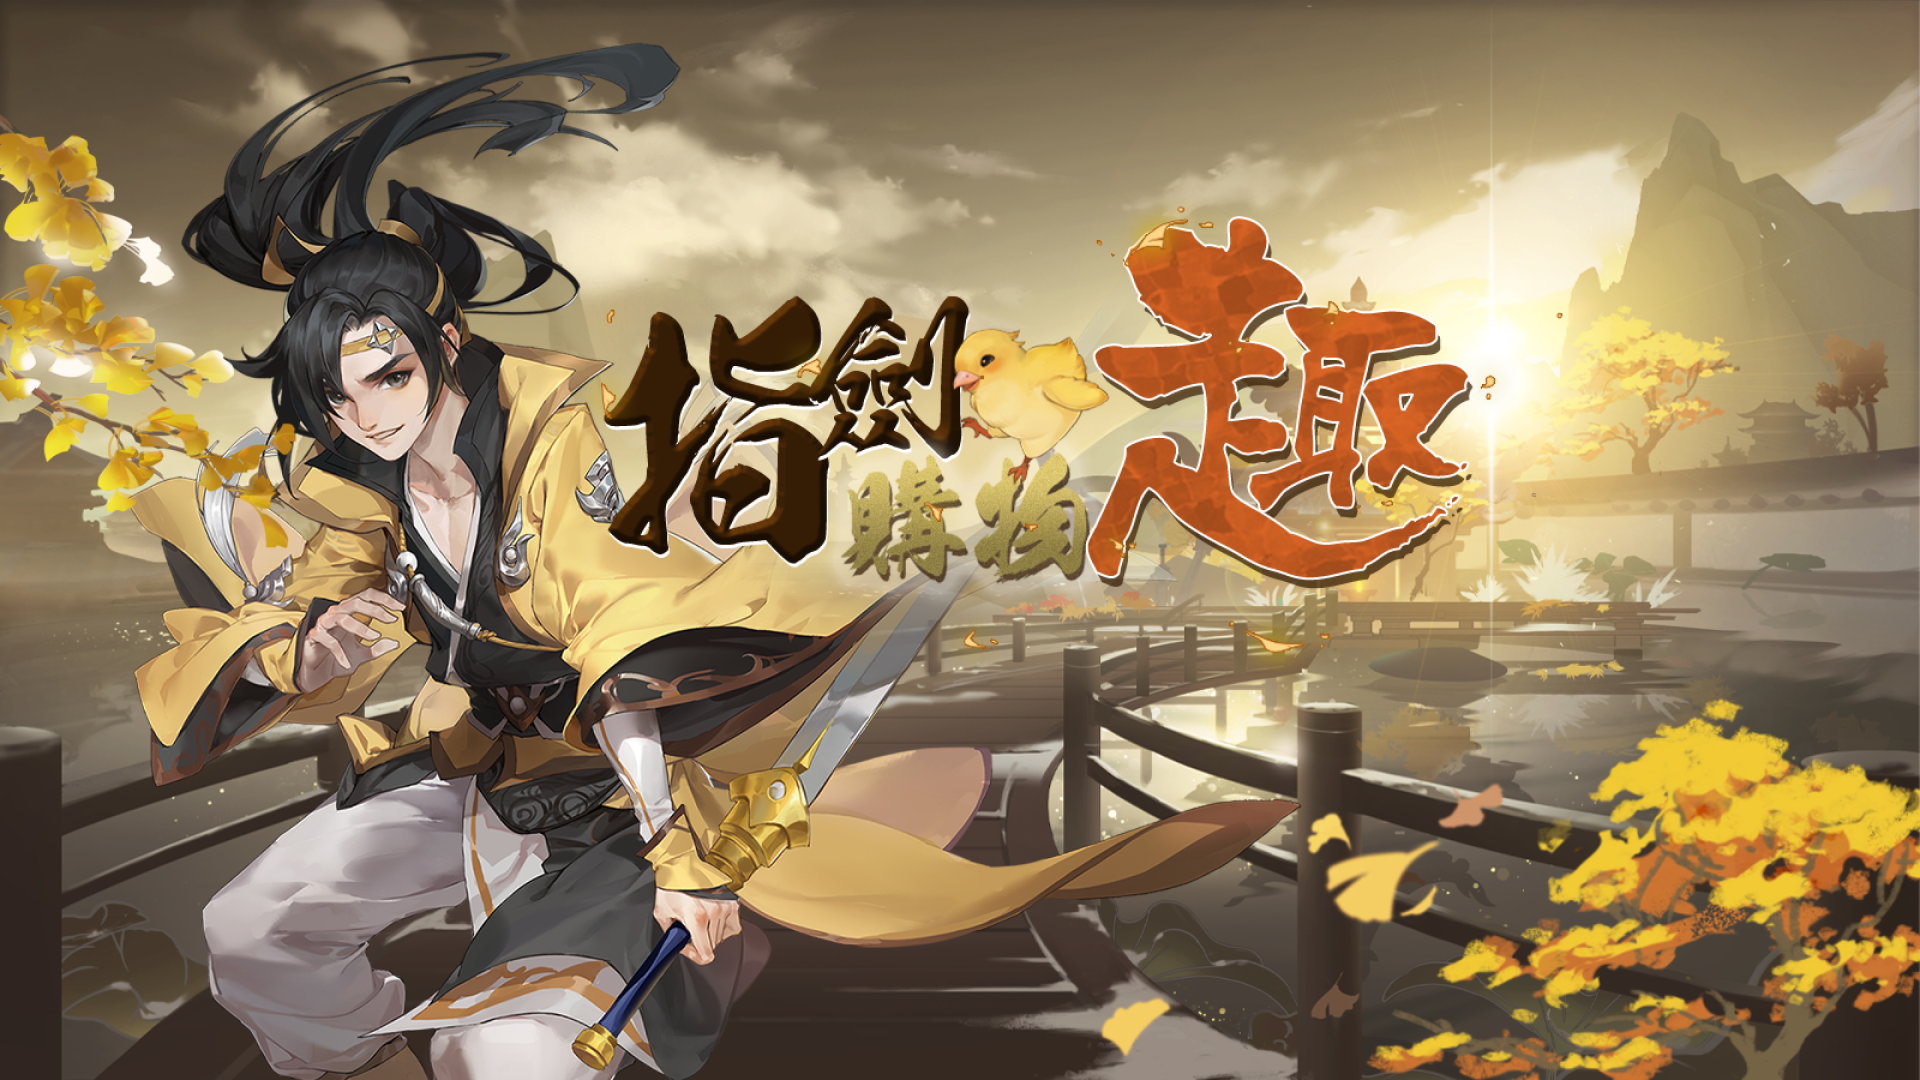
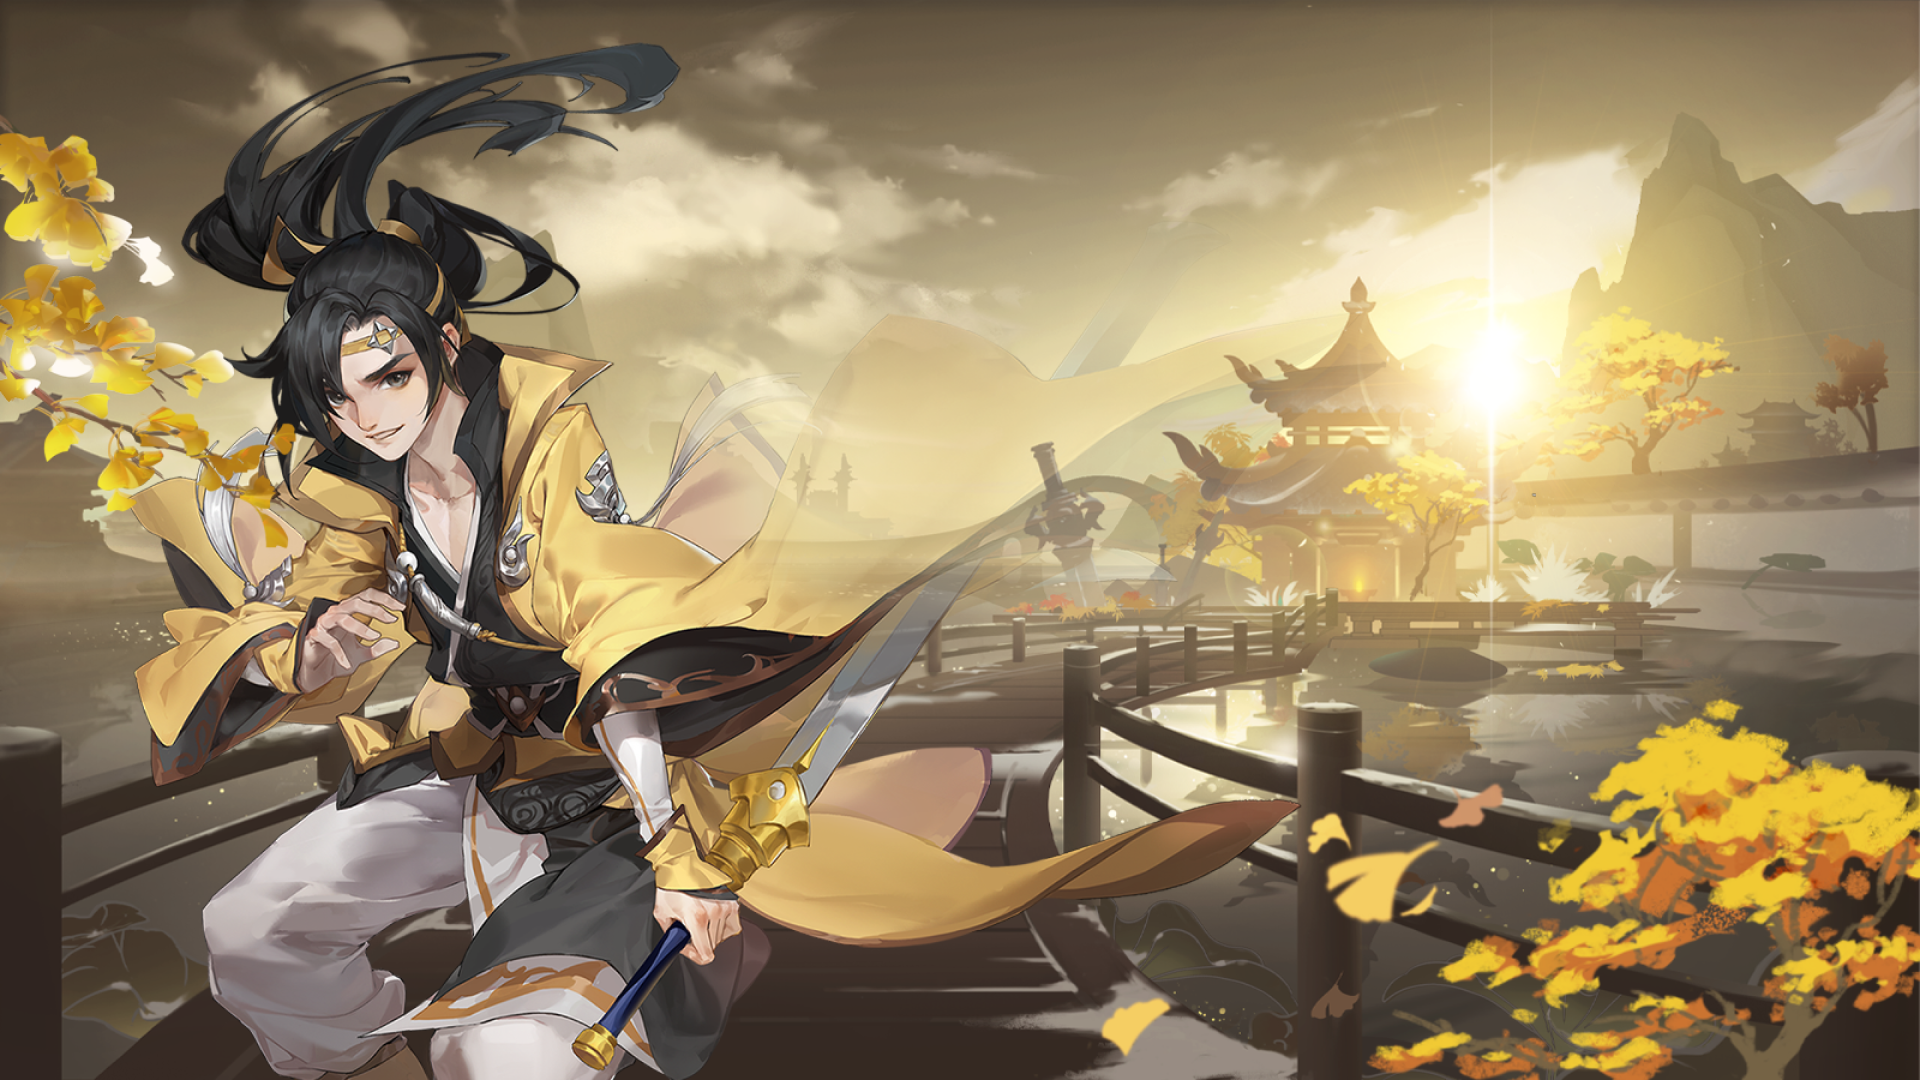
1221 16:22
背景橫版搞定 登入按鈕設定完成

Changed region(s): [[0.3125, 0.1833, 0.7812, 0.55], [0.6562, 0.5806, 0.6875, 0.6111], [0.5, 0.5806, 0.5312, 0.6111]]

diff --git a/dist/style/index.min.css b/dist/style/index.min.css
@@ -1,1 +1,1 @@
-*{margin:0;padding:0;-webkit-box-sizing:border-box;box-sizing:border-box}.lightbox{display:none;width:100vw;height:100vh;position:absolute;z-index:3;background:rgba(0,0,0,.7)}.lightbox img{position:absolute;top:40%;left:50%;-webkit-animation:shadow-drop-lr .4s cubic-bezier(0.25, 0.46, 0.45, 0.94) both;animation:shadow-drop-lr .4s cubic-bezier(0.25, 0.46, 0.45, 0.94) both}.logo{display:-webkit-box;display:-ms-flexbox;display:flex;-webkit-box-pack:end;-ms-flex-pack:end;justify-content:flex-end}.eventdescription{display:-webkit-box;display:-ms-flexbox;display:flex;-webkit-box-pack:end;-ms-flex-pack:end;justify-content:flex-end}.login{text-align:center;background-color:#1eff00;margin-bottom:3rem}.navbar{display:-webkit-box;display:-ms-flexbox;display:flex;-webkit-box-align:center;-ms-flex-align:center;align-items:center;-webkit-box-pack:center;-ms-flex-pack:center;justify-content:center;gap:10rem;margin-bottom:2rem}.navbar .button{font-size:1.3rem;width:180px;height:55px;color:#3290ff;border:1.73067px solid #3290ff;border-radius:20.768px;text-align:center;line-height:55px}.navbar a{text-decoration:none}.integral{margin-bottom:1rem}.page-1{display:none;margin:auto;width:90vw}.reward-index{margin:auto;font-size:1.3rem;text-align:center;line-height:1.7rem;display:-webkit-box;display:-ms-flexbox;display:flex;-webkit-box-pack:center;-ms-flex-pack:center;justify-content:center;gap:3rem;margin-bottom:3rem}.priz{width:300px;height:100%;border:1px solid #292922;border-radius:10px;-webkit-animation:shadow-drop-lr .4s cubic-bezier(0.25, 0.46, 0.45, 0.94) both;animation:shadow-drop-lr .4s cubic-bezier(0.25, 0.46, 0.45, 0.94) both}.page-2{display:none;padding-top:10px;padding-bottom:10px;margin:auto;width:20vw}.keyin{margin:auto;width:90%;padding:10px;display:-webkit-box;display:-ms-flexbox;display:flex;-webkit-box-orient:vertical;-webkit-box-direction:normal;-ms-flex-direction:column;flex-direction:column;-webkit-box-pack:center;-ms-flex-pack:center;justify-content:center;border:1px solid #292929;-webkit-animation:shadow-drop-lr .4s cubic-bezier(0.25, 0.46, 0.45, 0.94) both;animation:shadow-drop-lr .4s cubic-bezier(0.25, 0.46, 0.45, 0.94) both}form label{width:10vw}.address{width:170%}.click-button{width:100%;display:-webkit-box;display:-ms-flexbox;display:flex;-ms-flex-pack:distribute;justify-content:space-around}.page-3{display:none;margin:auto;width:90vw}.table{margin:auto;-webkit-animation:shadow-drop-lr .4s cubic-bezier(0.25, 0.46, 0.45, 0.94) both;animation:shadow-drop-lr .4s cubic-bezier(0.25, 0.46, 0.45, 0.94) both}.table thead td{padding-right:3rem;padding-left:5px;color:#fff;background-color:#333}.table td{padding-right:3rem;padding-left:5px;background-color:#f9f9f9}@-webkit-keyframes shadow-drop-lr{0%{-webkit-box-shadow:0 0 0 0 rgba(0,0,0,0),0 0 0 0 rgba(0,0,0,0);box-shadow:0 0 0 0 rgba(0,0,0,0),0 0 0 0 rgba(0,0,0,0)}100%{-webkit-box-shadow:-12px 0 20px -12px rgba(0,0,0,.35),12px 0 20px -12px rgba(0,0,0,.35);box-shadow:-12px 0 20px -12px rgba(0,0,0,.35),12px 0 20px -12px rgba(0,0,0,.35)}}@keyframes shadow-drop-lr{0%{-webkit-box-shadow:0 0 0 0 rgba(0,0,0,0),0 0 0 0 rgba(0,0,0,0);box-shadow:0 0 0 0 rgba(0,0,0,0),0 0 0 0 rgba(0,0,0,0)}100%{-webkit-box-shadow:-12px 0 20px -12px rgba(0,0,0,.35),12px 0 20px -12px rgba(0,0,0,.35);box-shadow:-12px 0 20px -12px rgba(0,0,0,.35),12px 0 20px -12px rgba(0,0,0,.35)}}/*# sourceMappingURL=index.min.css.map */
+*{margin:0;padding:0;-webkit-box-sizing:border-box;box-sizing:border-box}body{width:100vw;height:100vh;background-image:url("/img/index/backgrond.png");background-color:#f0e6ce;background-repeat:no-repeat;background-position:center center;background-size:cover}.lightbox{display:none;width:100vw;height:100vh;position:absolute;z-index:3;background:rgba(0,0,0,.7)}.lightbox img{position:absolute;top:40%;left:50%;-webkit-animation:shadow-drop-lr .4s cubic-bezier(0.25, 0.46, 0.45, 0.94) both;animation:shadow-drop-lr .4s cubic-bezier(0.25, 0.46, 0.45, 0.94) both}.logo{display:-webkit-box;display:-ms-flexbox;display:flex;-webkit-box-pack:end;-ms-flex-pack:end;justify-content:flex-end}.ibenlogo{display:-webkit-box;display:-ms-flexbox;display:flex;-webkit-box-pack:center;-ms-flex-pack:center;justify-content:center;margin-bottom:6%}.login{display:-webkit-box;display:-ms-flexbox;display:flex;gap:2rem;position:absolute;left:50%;bottom:0;-webkit-transform:translate(-50%);transform:translate(-50%);background-image:url("/img/index/login-border.png");width:665px;height:180px;-webkit-box-align:end;-ms-flex-align:end;align-items:flex-end;-webkit-box-pack:center;-ms-flex-pack:center;justify-content:center}.eventdescription{display:-webkit-box;display:-ms-flexbox;display:flex;-webkit-box-pack:end;-ms-flex-pack:end;justify-content:flex-end}.navbar{display:-webkit-box;display:-ms-flexbox;display:flex;-webkit-box-align:start;-ms-flex-align:start;align-items:flex-start;-webkit-box-pack:center;-ms-flex-pack:center;justify-content:center;gap:4rem;margin-bottom:2rem}.navbar .button{font-size:1.3rem;width:180px;height:55px;color:#3290ff;border:1.73067px solid #3290ff;border-radius:20.768px;text-align:center;line-height:55px}.navbar a{text-decoration:none}.integral{margin-bottom:1rem}.page-1{display:none;margin:auto;width:90vw}.reward-index{margin:auto;font-size:1.3rem;text-align:center;line-height:1.7rem;display:-webkit-box;display:-ms-flexbox;display:flex;-webkit-box-pack:center;-ms-flex-pack:center;justify-content:center;gap:3rem;margin-bottom:3rem}.priz{width:300px;height:100%;border:1px solid #292922;border-radius:10px;-webkit-animation:shadow-drop-lr .4s cubic-bezier(0.25, 0.46, 0.45, 0.94) both;animation:shadow-drop-lr .4s cubic-bezier(0.25, 0.46, 0.45, 0.94) both}.page-2{display:none;padding-top:10px;padding-bottom:10px;margin:auto;width:20vw}.keyin{margin:auto;width:90%;padding:10px;display:-webkit-box;display:-ms-flexbox;display:flex;-webkit-box-orient:vertical;-webkit-box-direction:normal;-ms-flex-direction:column;flex-direction:column;-webkit-box-pack:center;-ms-flex-pack:center;justify-content:center;border:1px solid #292929;-webkit-animation:shadow-drop-lr .4s cubic-bezier(0.25, 0.46, 0.45, 0.94) both;animation:shadow-drop-lr .4s cubic-bezier(0.25, 0.46, 0.45, 0.94) both}form label{width:10vw}.address{width:170%}.click-button{width:100%;display:-webkit-box;display:-ms-flexbox;display:flex;-ms-flex-pack:distribute;justify-content:space-around}.page-3{display:none;margin:auto;width:90vw}.table{margin:auto;-webkit-animation:shadow-drop-lr .4s cubic-bezier(0.25, 0.46, 0.45, 0.94) both;animation:shadow-drop-lr .4s cubic-bezier(0.25, 0.46, 0.45, 0.94) both}.table thead td{padding-right:3rem;padding-left:5px;color:#fff;background-color:#333}.table td{padding-right:3rem;padding-left:5px;background-color:#f9f9f9}@-webkit-keyframes shadow-drop-lr{0%{-webkit-box-shadow:0 0 0 0 rgba(0,0,0,0),0 0 0 0 rgba(0,0,0,0);box-shadow:0 0 0 0 rgba(0,0,0,0),0 0 0 0 rgba(0,0,0,0)}100%{-webkit-box-shadow:-12px 0 20px -12px rgba(0,0,0,.35),12px 0 20px -12px rgba(0,0,0,.35);box-shadow:-12px 0 20px -12px rgba(0,0,0,.35),12px 0 20px -12px rgba(0,0,0,.35)}}@keyframes shadow-drop-lr{0%{-webkit-box-shadow:0 0 0 0 rgba(0,0,0,0),0 0 0 0 rgba(0,0,0,0);box-shadow:0 0 0 0 rgba(0,0,0,0),0 0 0 0 rgba(0,0,0,0)}100%{-webkit-box-shadow:-12px 0 20px -12px rgba(0,0,0,.35),12px 0 20px -12px rgba(0,0,0,.35);box-shadow:-12px 0 20px -12px rgba(0,0,0,.35),12px 0 20px -12px rgba(0,0,0,.35)}}/*# sourceMappingURL=index.min.css.map */

diff --git a/public/style/index.css b/public/style/index.css
@@ -1,1 +1,1 @@
-*{margin:0;padding:0;-webkit-box-sizing:border-box;box-sizing:border-box}.lightbox{display:none;width:100vw;height:100vh;position:absolute;z-index:3;background:rgba(0,0,0,.7)}.lightbox img{position:absolute;top:40%;left:50%;-webkit-animation:shadow-drop-lr .4s cubic-bezier(0.25, 0.46, 0.45, 0.94) both;animation:shadow-drop-lr .4s cubic-bezier(0.25, 0.46, 0.45, 0.94) both}.logo{display:-webkit-box;display:-ms-flexbox;display:flex;-webkit-box-pack:end;-ms-flex-pack:end;justify-content:flex-end}.eventdescription{display:-webkit-box;display:-ms-flexbox;display:flex;-webkit-box-pack:end;-ms-flex-pack:end;justify-content:flex-end}.login{text-align:center;background-color:#1eff00;margin-bottom:3rem}.navbar{display:-webkit-box;display:-ms-flexbox;display:flex;-webkit-box-align:center;-ms-flex-align:center;align-items:center;-webkit-box-pack:center;-ms-flex-pack:center;justify-content:center;gap:10rem;margin-bottom:2rem}.navbar .button{font-size:1.3rem;width:180px;height:55px;color:#3290ff;border:1.73067px solid #3290ff;border-radius:20.768px;text-align:center;line-height:55px}.navbar a{text-decoration:none}.integral{margin-bottom:1rem}.page-1{display:none;margin:auto;width:90vw}.reward-index{margin:auto;font-size:1.3rem;text-align:center;line-height:1.7rem;display:-webkit-box;display:-ms-flexbox;display:flex;-webkit-box-pack:center;-ms-flex-pack:center;justify-content:center;gap:3rem;margin-bottom:3rem}.priz{width:300px;height:100%;border:1px solid #292922;border-radius:10px;-webkit-animation:shadow-drop-lr .4s cubic-bezier(0.25, 0.46, 0.45, 0.94) both;animation:shadow-drop-lr .4s cubic-bezier(0.25, 0.46, 0.45, 0.94) both}.page-2{display:none;padding-top:10px;padding-bottom:10px;margin:auto;width:20vw}.keyin{margin:auto;width:90%;padding:10px;display:-webkit-box;display:-ms-flexbox;display:flex;-webkit-box-orient:vertical;-webkit-box-direction:normal;-ms-flex-direction:column;flex-direction:column;-webkit-box-pack:center;-ms-flex-pack:center;justify-content:center;border:1px solid #292929;-webkit-animation:shadow-drop-lr .4s cubic-bezier(0.25, 0.46, 0.45, 0.94) both;animation:shadow-drop-lr .4s cubic-bezier(0.25, 0.46, 0.45, 0.94) both}form label{width:10vw}.address{width:170%}.click-button{width:100%;display:-webkit-box;display:-ms-flexbox;display:flex;-ms-flex-pack:distribute;justify-content:space-around}.page-3{display:none;margin:auto;width:90vw}.table{margin:auto;-webkit-animation:shadow-drop-lr .4s cubic-bezier(0.25, 0.46, 0.45, 0.94) both;animation:shadow-drop-lr .4s cubic-bezier(0.25, 0.46, 0.45, 0.94) both}.table thead td{padding-right:3rem;padding-left:5px;color:#fff;background-color:#333}.table td{padding-right:3rem;padding-left:5px;background-color:#f9f9f9}@-webkit-keyframes shadow-drop-lr{0%{-webkit-box-shadow:0 0 0 0 rgba(0,0,0,0),0 0 0 0 rgba(0,0,0,0);box-shadow:0 0 0 0 rgba(0,0,0,0),0 0 0 0 rgba(0,0,0,0)}100%{-webkit-box-shadow:-12px 0 20px -12px rgba(0,0,0,.35),12px 0 20px -12px rgba(0,0,0,.35);box-shadow:-12px 0 20px -12px rgba(0,0,0,.35),12px 0 20px -12px rgba(0,0,0,.35)}}@keyframes shadow-drop-lr{0%{-webkit-box-shadow:0 0 0 0 rgba(0,0,0,0),0 0 0 0 rgba(0,0,0,0);box-shadow:0 0 0 0 rgba(0,0,0,0),0 0 0 0 rgba(0,0,0,0)}100%{-webkit-box-shadow:-12px 0 20px -12px rgba(0,0,0,.35),12px 0 20px -12px rgba(0,0,0,.35);box-shadow:-12px 0 20px -12px rgba(0,0,0,.35),12px 0 20px -12px rgba(0,0,0,.35)}}/*# sourceMappingURL=index.css.map */
+*{margin:0;padding:0;-webkit-box-sizing:border-box;box-sizing:border-box}body{width:100vw;height:100vh;background-image:url("/img/index/backgrond.png");background-color:#f0e6ce;background-repeat:no-repeat;background-position:center center;background-size:cover}.lightbox{display:none;width:100vw;height:100vh;position:absolute;z-index:3;background:rgba(0,0,0,.7)}.lightbox img{position:absolute;top:40%;left:50%;-webkit-animation:shadow-drop-lr .4s cubic-bezier(0.25, 0.46, 0.45, 0.94) both;animation:shadow-drop-lr .4s cubic-bezier(0.25, 0.46, 0.45, 0.94) both}.logo{display:-webkit-box;display:-ms-flexbox;display:flex;-webkit-box-pack:end;-ms-flex-pack:end;justify-content:flex-end}.ibenlogo{display:-webkit-box;display:-ms-flexbox;display:flex;-webkit-box-pack:center;-ms-flex-pack:center;justify-content:center;margin-bottom:6%}.login{display:-webkit-box;display:-ms-flexbox;display:flex;gap:2rem;position:absolute;left:50%;bottom:0;-webkit-transform:translate(-50%);transform:translate(-50%);background-image:url("/img/index/login-border.png");width:665px;height:180px;-webkit-box-align:end;-ms-flex-align:end;align-items:flex-end;-webkit-box-pack:center;-ms-flex-pack:center;justify-content:center}.eventdescription{display:-webkit-box;display:-ms-flexbox;display:flex;-webkit-box-pack:end;-ms-flex-pack:end;justify-content:flex-end}.navbar{display:-webkit-box;display:-ms-flexbox;display:flex;-webkit-box-align:start;-ms-flex-align:start;align-items:flex-start;-webkit-box-pack:center;-ms-flex-pack:center;justify-content:center;gap:4rem;margin-bottom:2rem}.navbar .button{font-size:1.3rem;width:180px;height:55px;color:#3290ff;border:1.73067px solid #3290ff;border-radius:20.768px;text-align:center;line-height:55px}.navbar a{text-decoration:none}.integral{margin-bottom:1rem}.page-1{display:none;margin:auto;width:90vw}.reward-index{margin:auto;font-size:1.3rem;text-align:center;line-height:1.7rem;display:-webkit-box;display:-ms-flexbox;display:flex;-webkit-box-pack:center;-ms-flex-pack:center;justify-content:center;gap:3rem;margin-bottom:3rem}.priz{width:300px;height:100%;border:1px solid #292922;border-radius:10px;-webkit-animation:shadow-drop-lr .4s cubic-bezier(0.25, 0.46, 0.45, 0.94) both;animation:shadow-drop-lr .4s cubic-bezier(0.25, 0.46, 0.45, 0.94) both}.page-2{display:none;padding-top:10px;padding-bottom:10px;margin:auto;width:20vw}.keyin{margin:auto;width:90%;padding:10px;display:-webkit-box;display:-ms-flexbox;display:flex;-webkit-box-orient:vertical;-webkit-box-direction:normal;-ms-flex-direction:column;flex-direction:column;-webkit-box-pack:center;-ms-flex-pack:center;justify-content:center;border:1px solid #292929;-webkit-animation:shadow-drop-lr .4s cubic-bezier(0.25, 0.46, 0.45, 0.94) both;animation:shadow-drop-lr .4s cubic-bezier(0.25, 0.46, 0.45, 0.94) both}form label{width:10vw}.address{width:170%}.click-button{width:100%;display:-webkit-box;display:-ms-flexbox;display:flex;-ms-flex-pack:distribute;justify-content:space-around}.page-3{display:none;margin:auto;width:90vw}.table{margin:auto;-webkit-animation:shadow-drop-lr .4s cubic-bezier(0.25, 0.46, 0.45, 0.94) both;animation:shadow-drop-lr .4s cubic-bezier(0.25, 0.46, 0.45, 0.94) both}.table thead td{padding-right:3rem;padding-left:5px;color:#fff;background-color:#333}.table td{padding-right:3rem;padding-left:5px;background-color:#f9f9f9}@-webkit-keyframes shadow-drop-lr{0%{-webkit-box-shadow:0 0 0 0 rgba(0,0,0,0),0 0 0 0 rgba(0,0,0,0);box-shadow:0 0 0 0 rgba(0,0,0,0),0 0 0 0 rgba(0,0,0,0)}100%{-webkit-box-shadow:-12px 0 20px -12px rgba(0,0,0,.35),12px 0 20px -12px rgba(0,0,0,.35);box-shadow:-12px 0 20px -12px rgba(0,0,0,.35),12px 0 20px -12px rgba(0,0,0,.35)}}@keyframes shadow-drop-lr{0%{-webkit-box-shadow:0 0 0 0 rgba(0,0,0,0),0 0 0 0 rgba(0,0,0,0);box-shadow:0 0 0 0 rgba(0,0,0,0),0 0 0 0 rgba(0,0,0,0)}100%{-webkit-box-shadow:-12px 0 20px -12px rgba(0,0,0,.35),12px 0 20px -12px rgba(0,0,0,.35);box-shadow:-12px 0 20px -12px rgba(0,0,0,.35),12px 0 20px -12px rgba(0,0,0,.35)}}/*# sourceMappingURL=index.css.map */

diff --git a/index.html b/index.html
@@ -80,28 +80,51 @@
 
     <nav>
         <div class="logo"><a href="https://zhj.gameflier.com/"><img
-                    src="./img/logo.png"
+                    src="./img/index/gamelogo.png"
                     alt="LogoImg"
                 ></a></div>
-        <div class="eventdescription">
-            <a href="javascript:lightBox(1)">
+        <div class="ibenlogo"><img
+                src="./img/index/ibenlogo.png"
+                alt=""
+            ></div>
+
+        <div class="navbar">
+            <a href="javascript:changeBox(1)">
                 <img
-                    src="./img/mbt1.png"
+                    src="./img/index/bones.png"
+                    alt=""
+                >
+            </a>
+            <a href="javascript:changeBox(2)">
+                <img
+                    src="./img/index/addides.png"
+                    alt=""
+                >
+            </a>
+            <a href="javascript:changeBox(3)">
+                <img
+                    src="./img/index/log.png"
                     alt=""
                 >
             </a>
         </div>
-        <div class="login">Login div</div>
-        <div class="navbar">
-            <a href="javascript:changeBox(1)">
-                <div class="button">獎勵兌換區</div>
-            </a>
-            <a href="javascript:changeBox(2)">
-                <div class="button">獎勵寄送資料</div>
-            </a>
-            <a href="javascript:changeBox(3)">
-                <div class="button">兌換紀錄查詢</div>
-            </a>
+        <div class="login">
+            <div class="loginicon"><a href=""><img
+                        src="./img/index/apple.png"
+                        alt=""
+                    ></a></div>
+            <div class="loginicon"><a href=""><img
+                        src="./img/index/google.png"
+                        alt=""
+                    ></a></div>
+            <div class="loginicon"><a href=""><img
+                        src="./img/index/facebook.png"
+                        alt=""
+                    ></a></div>
+            <div class="loginicon"><a href=""><img
+                        src="./img/index/GFlogo.png"
+                        alt=""
+                    ></a></div>
         </div>
     </nav>
 

diff --git a/style/index.css b/style/index.css
@@ -5,6 +5,16 @@
           box-sizing: border-box;
 }
 
+body {
+  width: 100vw;
+  height: 100vh;
+  background-image: url("/img/index/backgrond.png");
+  background-color: #f0e6ce;
+  background-repeat: no-repeat;
+  background-position: center center;
+  background-size: cover;
+}
+
 .lightbox {
   display: none;
   width: 100vw;
@@ -31,6 +41,37 @@
           justify-content: flex-end;
 }
 
+.ibenlogo {
+  display: -webkit-box;
+  display: -ms-flexbox;
+  display: flex;
+  -webkit-box-pack: center;
+      -ms-flex-pack: center;
+          justify-content: center;
+  margin-bottom: 6%;
+}
+
+.login {
+  display: -webkit-box;
+  display: -ms-flexbox;
+  display: flex;
+  gap: 2rem;
+  position: absolute;
+  left: 50%;
+  bottom: 0;
+  -webkit-transform: translate(-50%);
+          transform: translate(-50%);
+  background-image: url("/img/index/login-border.png");
+  width: 665px;
+  height: 180px;
+  -webkit-box-align: end;
+      -ms-flex-align: end;
+          align-items: flex-end;
+  -webkit-box-pack: center;
+      -ms-flex-pack: center;
+          justify-content: center;
+}
+
 .eventdescription {
   display: -webkit-box;
   display: -ms-flexbox;
@@ -40,23 +81,17 @@
           justify-content: flex-end;
 }
 
-.login {
-  text-align: center;
-  background-color: rgb(30, 255, 0);
-  margin-bottom: 3rem;
-}
-
 .navbar {
   display: -webkit-box;
   display: -ms-flexbox;
   display: flex;
-  -webkit-box-align: center;
-      -ms-flex-align: center;
-          align-items: center;
+  -webkit-box-align: start;
+      -ms-flex-align: start;
+          align-items: flex-start;
   -webkit-box-pack: center;
       -ms-flex-pack: center;
           justify-content: center;
-  gap: 10rem;
+  gap: 4rem;
   margin-bottom: 2rem;
 }
 

diff --git a/scss/index.scss b/scss/index.scss
@@ -4,6 +4,16 @@
   box-sizing: border-box;
 }
 
+body {
+  width: 100vw;
+  height: 100vh;
+  background-image: url("/img/index/backgrond.png");
+  background-color: #f0e6ce;
+  background-repeat: no-repeat;
+  background-position: center center;
+  background-size: cover;
+}
+
 .lightbox {
   display: none;
   width: 100vw;
@@ -22,24 +32,34 @@
   display: flex;
   justify-content: flex-end;
 }
-
+.ibenlogo {
+  display: flex;
+  justify-content: center;
+  margin-bottom: 6%;
+}
+.login {
+  display: flex;
+  gap: 2rem;
+  position: absolute;
+  left: 50%;
+  bottom: 0;
+  transform: translate(-50%);
+  background-image: url("/img/index/login-border.png");
+  width: 665px;
+  height: 180px;
+  align-items: flex-end;
+  justify-content: center;
+}
 .eventdescription {
   display: flex;
   justify-content: flex-end;
 }
 
-.login {
-  text-align: center;
-
-  background-color: rgb(30, 255, 0);
-  margin-bottom: 3rem;
-}
-
 .navbar {
   display: flex;
-  align-items: center;
+  align-items: flex-start;
   justify-content: center;
-  gap: 10rem;
+  gap: 4rem;
   margin-bottom: 2rem;
 }
 .navbar .button {
